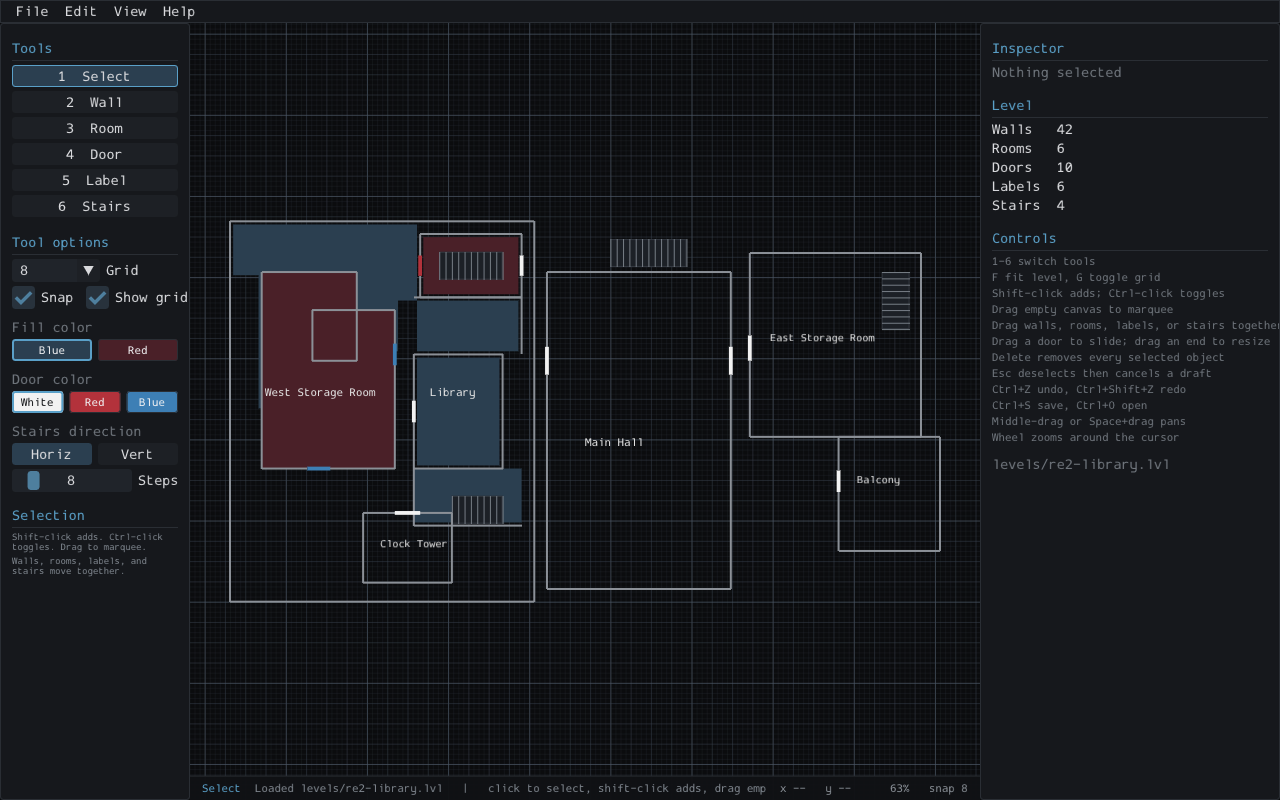
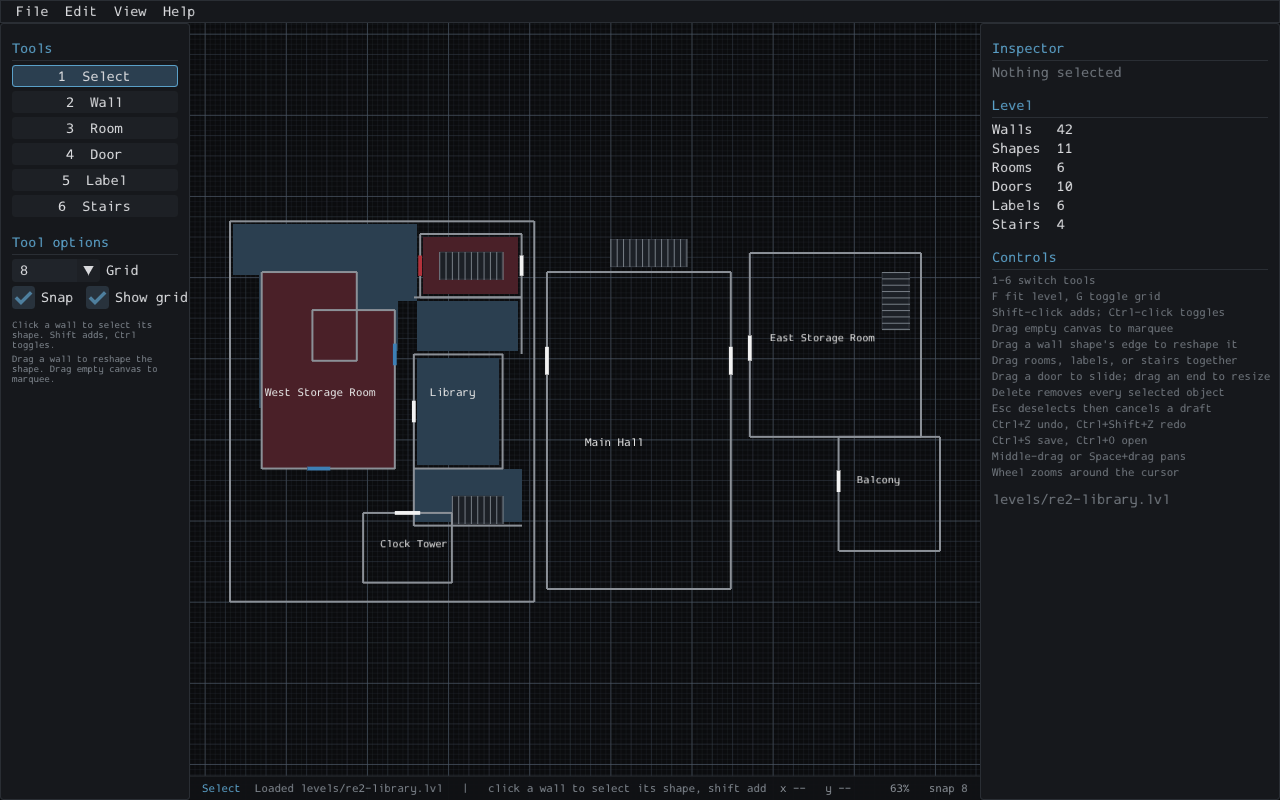
Document shapes, reshaping, and inside-only fills

diff --git a/README.md b/README.md
@@ -40,13 +40,14 @@ Load another level with `./build/editor --level path/to/level.lvl`. The `levels/
 
 - Draw walls click by click. Every segment is horizontal or vertical and continues from the last click.
 - Close a drawn loop by clicking its first point or pressing Enter. Close with an L-shaped pair when the last point is not aligned with the first. Press Esc to keep the chain open.
-- Create a painted area automatically when a loop closes, or draw one explicitly with the Room tool. Recolor any area blue or red.
+- Each drawn chain is one wall shape. Select any of its lines to select the shape, then drag a line to reshape it: that line moves and the lines connected to it stretch, while opposite lines stay put.
+- A closed shape fills only its own inside, in blue or red, or not at all with the None fill. Draw a painted area independently with the Room tool when it should not follow walls.
 - Add white, red, or blue doors to walls. A door keeps a fixed thickness, slides along its wall, and changes length by dragging either end or with the inspector.
 - Add text labels anywhere, edit the text in the inspector, resize and move them.
 - Add standard stairs with 2 to 48 steps. The step count sets the run length, and each run is horizontal or vertical.
-- Select, move, edit, and delete the placed objects. Deleting a wall also deletes the doors hosted by it.
-- Click to select, shift-click to add, Ctrl-click to remove, or drag from empty canvas to marquee select. Delete removes the whole selection in one step, and dragging anything selected moves the group together.
-- Snap to the grid on placement and movement. The drawn grid follows the selected Grid size, so every line is a position objects can land on. The grid sizes are 4, 8, 16, and 32 world units, and the Snap checkbox turns snapping off.
+- Select, edit, and delete the placed objects. Deleting a shape removes its walls and the doors hosted by them.
+- Click to select, shift-click to add, Ctrl-click to remove, or drag from empty canvas to marquee select. Delete removes the whole selection in one step. Dragging a wall line reshapes its shape, and dragging labels, rooms, or stairs moves them together.
+- Snap to the grid on placement, dragging, and reshaping. The drawn grid follows the selected Grid size, so every line is a position objects can land on. The grid sizes are 4, 8, 16, and 32 world units, and the Snap checkbox turns snapping off.
 - Pan, zoom, fit the level, undo and redo, save, and load.
 
 ## Controls
@@ -57,6 +58,7 @@ Load another level with `./build/editor --level path/to/level.lvl`. The `levels/
 | Left click | Use the active tool |
 | Shift plus left click | Add an object to the selection |
 | Ctrl plus left click | Toggle an object in the selection |
+| Drag a wall line | Reshape the shape by sliding that line and stretching its neighbours |
 | Drag on empty canvas | Marquee select; Shift adds to the selection |
 | Middle drag, or Space plus left drag | Pan |
 | Mouse wheel | Zoom around the cursor |
@@ -79,93 +81,27 @@ Painted areas are explicit polygons. That keeps their color and identity when ne
 
 Labels store a position, a size, and a string. Stairs store a center, a direction, and a step count. `STAIR_STEP_DEPTH` and `STAIR_WIDTH` fix the tread size.
 
-Selection is UI state and is never saved into a level. It is a bounded set per object kind plus a primary object. Shift-click adds an object, Ctrl-click toggles it, a marquee replaces or adds to the set, and Delete removes every selected object with one undo step. Dragging a selected wall moves the wall, or the whole group when it is part of a multi-selection. Selected rooms, labels, and stairs move with it. A door stores its host wall id and a normalized position, so a door travels with its wall and cannot leave it. A door dragged alone still slides along its wall, and a door end still resizes it.
+Selection is UI state and is never saved into a level. It is a bounded set per object kind plus a primary object. Shift-click adds an object, Ctrl-click toggles it, a marquee replaces or adds to the set, and Delete removes every selected object with one undo step. Dragging a wall line reshapes its shape. Selected rooms, labels, and stairs move as a group when dragged. A door stores its host wall id and a normalized position, so a door travels with its wall and cannot leave it. A door dragged alone still slides along its wall, and a door end still resizes it.
 
-Snap-to-grid applies to wall and room points, labels, stairs, door centers, door resize spans, and object drags. A group drag snaps from the primary object, so the relative spacing of the group stays intact. Snap is on by default. The grid sizes are 4, 8, 16, and 32 world units.
+Snap-to-grid applies to wall and room points, labels, stairs, door centers, door resize spans, reshapes, and object drags. A group drag snaps from the primary object, so the relative spacing of the group stays intact. Snap is on by default. The grid sizes are 4, 8, 16, and 32 world units.
 
 Undo stores whole level snapshots. Each completed change writes one snapshot. A wall click, a drag, and a property edit each undo as their own step. Closing a loop writes its closing walls and the fill together. The history keeps 64 levels.
 
-## Selection and snapping
+## Selection, shapes, and snapping
 
 ![Marquee selection in progress](docs/screenshots/marquee.png)
 
-A plain click on an unselected object selects only it. Clicking an object already in a multi-selection keeps the group and makes it primary, so the group can be dragged. Shift-click adds an object and never removes one. Ctrl-click toggles it. Dragging from empty canvas draws a marquee, and Shift makes the marquee additive. The inspector shows per-kind counts for a multi-selection, and Delete removes the whole set in one undo step.
+A plain click on an unselected object selects only it. Clicking an object already in a multi-selection keeps the group and makes it primary. Shift-click adds an object and never removes one. Ctrl-click toggles it. Dragging from empty canvas draws a marquee, and Shift makes the marquee additive. The inspector shows per-kind counts for a multi-selection, and Delete removes the whole set in one undo step.
 
-![Two selected labels](docs/screenshots/selection.png)
+A wall belongs to a shape, so clicking any of its lines selects the whole shape. The inspector then shows the shape: its fill, whether it is closed, and how many walls it has.
 
-![The whole level dragged as one group](docs/screenshots/group-drag.png)
+![A wall shape selected](docs/screenshots/selection.png)
 
-Marquee select everything, then drag any selected wall. The walls, their doors, the fills, the labels, and the stairs move by one grid-snapped delta and commit as one undo step.
+Drag one of the shape's lines to reshape it. The line slides along its normal, snapped to the grid, and every line that meets it stretches. Lines on the opposite side stay where they are.
 
-Dragging moves the whole group, walls and their doors included. A door has no independent position, so it follows its host wall; selecting a door without its wall leaves it in place and the status line says so. A door dragged alone slides along its wall, and dragging an end handle resizes it. Snap uses the grid size set in the left panel, and the group snaps from the primary object's anchor so the rest keeps its offset.
+![A line dragged to reshape the shape](docs/screenshots/reshape.png)
 
-The recommended interaction settings are now the only behavior. Door placement is click only, closing a wall loop always creates a fill, and a door always opens the wall behind it. The Prototype panel and its unused variants were removed.
-
-## Level format
-
-Levels are UTF-8 text and diff cleanly in git. A short example:
-
-```text
-ink-level 1
-wall 1 40.000 40.000 520.000 40.000
-wall 2 520.000 40.000 520.000 640.000
-room 1 4 100.000 120.000 220.000 120.000 220.000 260.000 100.000 260.000
-door 0 1 0.5000 44.000
-label 120.000 300.000 19.000 West Storage Room
-stairs 420.000 110.000 0 10
-```
-
-Records are `wall`, `room`, `door`, `label`, and `stairs`. Walls carry their ids so door hosts survive a save and load. Load parses into a temporary level and leaves the open level untouched on any error.
-
-## Project layout
-
-| Path | Owns |
-| --- | --- |
-| `src/main.c` | sokol app lifecycle, font, frame order |
-| `src/editor.c` | ImGui theme, panels, canvas, gestures, camera, modals |
-| `src/level.c` | level document, edits, save, load, undo ring |
-| `src/geom.c` | vectors, snapping, segment and polygon math |
-| `tests/test_level.c` | 171 headless checks for the core |
-| `tools/verify.sh` | end-to-end X11 check with pixel evidence |
-| `tools/shot.sh` | build, launch, drive, screenshot |
-| `tools/gen_demo_map.py` | regenerate the demo level |
-| `tools/level_info.c` | print counts and bounds for a level file |
-
-Only `main.c` and `editor.c` include sokol or ImGui headers. `make test` links the core with gcc alone, so a core file that pulls in a UI header fails the build.
-
-## Verification
-
-```sh
-make test
-make verify
-```
-
-`make verify` runs `tools/verify.sh`, which rebuilds, runs the core tests, drives the real X11 window with xdotool, samples canvas pixels, and checks the saved file. A recorded run at 1280x800:
-
-```text
-PASS build without warnings
-PASS prototype settings removed
-PASS core tests (171 checks)
-PASS demo fills blue=28197 red=25854 white=440
-PASS closed loop added a fill (+9296 blue px)
-PASS delete removed the fill
-PASS undo restored the fill
-PASS click placement added a white door (+52 white px)
-PASS label typed and deactivated
-PASS save wrote 46 walls, 11 doors, a grid label, and a grid door
-PASS reload restored the level (blue=37899)
-PASS marquee selected all and shift-click preserved the selected walls, rooms, and doors
-PASS undo restored the level after marquee delete
-PASS group drag moved both labels onto the grid
-PASS group drag moved walls and their doors with the rest of the selection
-PASS shift selection deleted both labels in one step
-PASS dragged wall moved onto grid coordinates
-PASS l-shaped close created a fill (+6884 blue px)
-PASS l-shaped close saved 4 new walls and a 4 point room
-ALL EDITOR CHECKS PASSED
-```
-
-The script assumes a 1280x800 window and the default panel widths, and it uses its own Xvfb display. Screenshots land in `/tmp/ink-ribbon-verify-*.png`.
+Doors ride their host wall through a reshape. A door dragged alone slides along its wall, and dragging an end handle resizes it. Labels, rooms, and stairs still move as a group when they are dragged together.
 
 ## Focus and the pointer
 

diff --git a/docs/architecture.md b/docs/architecture.md
@@ -6,13 +6,13 @@ The editor must reproduce the reference map: orthogonal walls drawn click by cli
 
 ## Shape
 
-One pointer-free `Level` document of five typed pools: walls, rooms, doors, labels, stairs. Every pool has a fixed capacity and a live count. A whole document copy is a struct assignment, which makes snapshot undo and load-after-validate trivial.
+One pointer-free `Level` document of six typed pools: shapes, walls, rooms, doors, labels, stairs. Every pool has a fixed capacity and a live count. A whole document copy is a struct assignment, which makes snapshot undo and load-after-validate trivial.
 
-Walls are independent axis-aligned segments with a monotonic `WallId`. Corners connect visually because the wall tool starts each new segment at the previous click. No vertex pool exists, so a wall cannot dangle and no epsilon weld is needed. `level_add_wall` rejects a zero-length or non-orthogonal segment, so every stored wall is drawable and every door host has a well-defined axis.
+A shape is one drawn wall chain: a `Shape` record with a closed flag and a fill colour, plus the walls that belong to it. Walls stay independent axis-aligned segments with a monotonic `WallId` and a `ShapeId`. Wall order inside a shape is the order the walls were added, so the loop polygon is a traversal, not a second geometry copy. There is no vertex pool: corners meet because the wall tool starts each segment at the previous endpoint, and a reshape carries every endpoint that coincides with the moved line. `level_add_wall` rejects a zero-length or non-orthogonal segment, so every stored wall is drawable and every door host has a well-defined axis.
 
 Doors store `{ WallId wall, float t, float width, DoorColor color }`. `t` is the center parameter from 0 to 1. The thickness is the `DOOR_THICKNESS` constant for every door, per the request. `level_set_door_span` clamps the span to the host wall. Deleting a wall deletes its doors in the same operation, so a door never points at a dead host.
 
-Rooms are explicit polygons created when a wall chain closes. They are not derived from wall faces. The reference fills are not exact faces, and an explicit polygon keeps its color and identity when nearby walls change. The canvas fills them with `ImDrawList_AddConcavePolyFilled`, which the vendored ImGui 1.93 provides, so no triangulation code exists.
+A closed shape carries its own fill, None, blue, or red, and the fill polygon is the shape's wall loop. Standalone Room polygons stay for painted areas that do not follow walls. Both are filled by `polygon_triangulate` in `geom.c`, an ear-clipping pass over the polygon, and drawn as triangles. The vendored ImGui `ImDrawList_AddConcavePolyFilled` renders the bounding rectangle for some valid polygons, including a plus-shaped loop, so it is not used for fills.
 
 Labels and stairs are independent placed objects. Stairs use the constants `STAIR_STEP_DEPTH`, `STAIR_WIDTH`, and an integer step count, so "standard stairs, adjustable count" is encoded rather than repeated in UI code. Their footprint is a pure function of the object.
 
@@ -22,30 +22,30 @@ The core (`geom.*`, `level.*`) includes no sokol or ImGui header and builds with
 
 ## Fixed interaction choices
 
-The prototype comparison picked click door placement, automatic room fill on wall-loop close, and cut door rendering. Those are now the only behavior. The Prototype panel and the drag-placement, manual-fill, and overlay-render branches were removed. The Room tool still draws explicit fills for painted areas that do not follow walls.
+The prototype comparison picked click door placement, automatic fill when a wall loop closes, and cut door rendering. Those are now the only behavior. The Prototype panel and the drag-placement, manual-fill, and overlay-render branches were removed. The Room tool still draws explicit fills for painted areas that do not follow walls.
 
-Selection is UI state in `editor.c`, not part of `Level`. It is five bounded per-kind sets plus a primary reference. Shift-click adds, Ctrl-click toggles, a marquee replaces or adds, and Delete removes every selected object in one snapshot. Walls, rooms, labels, and stairs move as a group. Walls are the movable primitive: a door stores a wall id and a normalized position, so it follows its wall and cannot be translated independently. A door dragged alone keeps its slide and end-resize gestures.
+Selection is UI state in `editor.c`, not part of `Level`. It is six bounded per-kind sets plus a primary reference. Shift-click adds, Ctrl-click toggles, a marquee replaces or adds, and Delete removes every selected object in one snapshot. A wall hit selects its whole shape, because the shape is the object. Dragging one of its lines starts `GESTURE_RESHAPE`, which slides that line along its normal and carries every coincident endpoint, so connected lines stretch and opposite lines stay. Rooms, labels, and stairs still move as a group. A door stores a wall id and a normalized position, so it follows its wall and cannot be translated independently. A door dragged alone keeps its slide and end-resize gestures.
 
-Snap applies to placement and to label, stair, room, door, and group drags. Group drags snap from the primary object's anchor so relative spacing is preserved. The Snap checkbox and grid size remain user controls.
+Snap applies to placement, reshaping, and label, stair, room, door, and group drags. Group drags snap from the primary object's anchor so relative spacing is preserved. The Snap checkbox and grid size remain user controls.
 
 ## Alternatives rejected
 
-- Welded vertex graph and generational handles. It makes connectivity structural and survives wall sliding. It also adds a vertex invariant, stale handle repair, cycle extraction, and a wall-move rule that the request never exercises. The simpler independent-segment document has one reference invariant (door to wall) and one cascade.
+- Welded vertex graph and generational handles. It makes connectivity structural and survives arbitrary wall sliding. It also adds a vertex invariant, stale handle repair, and cycle extraction. The shape pool keeps walls as segments and adds one invariant (wall to shape), one ordered traversal, and one cascade.
 - Rooms derived from wall faces. Fill identity churns when walls change, and the reference fills are not faces.
 - Tagged-union entity array. `Room` carries 64 points, so a union charges every door and label about half a kilobyte and every render loop still switches on kind.
 - Command-delta undo. More code, more inverses, no benefit at this document size.
 
 ## Tradeoffs
 
-- Fixed capacities (512 walls, 64 rooms, 256 doors, 128 labels, 64 stairs) are enough for a floor plan and keep the format and snapshots simple. Capacity failure is reported in the status line.
-- Rooms are duplicated geometry rather than derived topology. A room can drift from its walls after wall deletion; that matches the reference, where fills are painted areas.
+- Fixed capacities (512 shapes, 512 walls, 64 rooms, 256 doors, 128 labels, 64 stairs) are enough for a floor plan and keep the format and snapshots simple. Capacity failure is reported in the status line.
+- Shape fills are derived from the shape's walls, so they follow a reshape. Standalone rooms are painted and can drift; that matches the reference, where some fills are painted areas.
 - Selection is a bounded set per object kind plus a primary reference. It is cleared when an undo changes pool counts, so indices never retarget silently. Doors keep stable wall IDs, so no generational handles are needed.
 - `make test` covers the pure core only. Canvas behavior is proven by driving the real window and screenshotting it.
 
 ## Synthesis decision
 
-The base is the independent segment document above. Candidate A proposed a welded vertex graph with generational handles, cycle walking, and a wall run slide. Candidate B proposed the same graph with integer centimetre coordinates, typed wall and room ids, and rooms stored as wall cycles. Both are sound CAD designs, and both solve wall dragging and splitting at crossings. The request asks for drawing, coloring, doors on walls, labels, stairs, and deletion. It never asks to drag a wall or split one at a crossing. The graph would add a vertex invariant, stale handle repair, and a cycle query that no requested gesture uses. The simpler document has one cross-object invariant, the door host, and one cascade on wall delete.
+The base is the shape document above. The earlier independent-segment design dropped wall dragging on the argument that the request never asked for it. A later request did: walls must form one shape with draggable lines. The shape pool answers that by grouping existing segments and adding one slide rule. A welded graph would still be the wrong size: it adds a vertex invariant, stale handle repair, and a cycle query, while the request needs one gesture.
 
-From candidate A we kept stable wall ids, the door host reference, the delete cascade, whole-document snapshots, the all-or-nothing load, and the fixed capacity constants. From candidate B we kept the typed pools, one gesture union, and the discovery that ImGui 1.93 has `ImDrawList_AddConcavePolyFilled`, which removes the triangulation A proposed. We rejected the vertex pool, generational handles, integer coordinates, and rooms as wall cycles.
+From candidate A we kept stable wall ids, the door host reference, the delete cascade, whole-document snapshots, the all-or-nothing load, and the fixed capacity constants. From candidate B we kept the typed pools and one gesture union. We rejected the vertex pool, generational handles, integer coordinates, and rooms as wall cycles. The triangulation A proposed came back after `ImDrawList_AddConcavePolyFilled` was measured filling a plus loop's bounding rectangle; `geom.c` now ear-clips.
 
 The prototype comparison picked Click for door placement, Auto for room fill, and Cut for door render. Those choices are now fixed, the panel is gone, and multi-selection plus grid snapping sit on top of the same document model. The evidence is in `README.md` and `tools/verify.sh`.

diff --git a/docs/editor-ui-spec.md b/docs/editor-ui-spec.md
@@ -9,7 +9,7 @@ One sokol window titled `Ink Ribbon Level Editor`, 1280 by 800 initial size, nea
 The frame builds a full-viewport ImGui layout:
 
 - A main menu bar at the top: File, Edit, View, Help.
-- A left tool panel, 190 px wide, from below the menu bar to the bottom.
+- A left tool panel, 190 px wide, from below the menu bar to the bottom. It shows the tool buttons, then Grid, Snap, and Show grid, then only the options the active tool uses.
 - A right inspector panel, 300 px wide, same vertical span.
 - A canvas filling the middle. Canvas rect is stored in the editor so the mouse can be converted between screen and world.
 - A one-line status strip overlaid at the bottom of the canvas. It shows the active tool hint, cursor world coordinates, zoom, the current snap size or `snap off`, and the latest action or error.
@@ -18,7 +18,7 @@ Panels use `ImGuiWindowFlags_NoTitleBar | NoResize | NoMove | NoCollapse | NoScr
 
 ## Visual language
 
-Match the reference. Near-black canvas `#0b0c0e`. Grid lines at the selected Grid size, subtle at `#333b45` with low alpha, a brighter line every 4 cells and the brightest every 16. The grid gets coarser only when the fine lines would be closer than 4 screen pixels. Walls `#8b9097`, 2 screen pixels wide. Room blue `#2b3f50`, room red `#4a2028`, both opaque. Doors white `#f2f2f2`, red `#b3323b`, blue `#3d7fb5`. Labels `#e6e6e6`. Stairs `#767d85` treads on a slightly lighter footprint fill. Selection accent `#5aa0c8` with a 2 px outline or handles.
+Match the reference. Near-black canvas `#0b0c0e`. Grid lines at the selected Grid size, subtle at `#333b45` with low alpha, a brighter line every 4 cells and the brightest every 16. The grid gets coarser only when the fine lines would be closer than 4 screen pixels. Walls `#8b9097`, 2 screen pixels wide. Fill blue `#2b3f50`, fill red `#4a2028`, both opaque. A closed wall shape can also use None, which draws no fill. Fills are ear-clipped into triangles, so a shape fills its own outline and never its bounding rectangle. Doors white `#f2f2f2`, red `#b3323b`, blue `#3d7fb5`. Labels `#e6e6e6`. Stairs `#767d85` treads on a slightly lighter footprint fill. Selection accent `#5aa0c8` with a 2 px outline or handles.
 
 Dark ImGui theme: window background `#101114`, panel `#16181c`, frame `#1d2025`, borders `#2a2e34`, text `#d9dadd`, accent `#4e7f9e`. Rounded corners 3 px. Sentence-case headings.
 
@@ -45,11 +45,12 @@ Click sets points. Each click appends an orthogonal segment that continues from 
 
 - The first click starts a chain at the grid-snapped point.
 - Each later click uses `snap_ortho(chain_last, cursor_world, grid)` so a segment is horizontal when `|dx| > |dy|`, vertical otherwise, and the free coordinate snaps to the grid.
-- Clicking within 12 screen pixels of the first point closes the chain: add the final wall back to the first point, then add a room polygon from the chain points using the current fill color. End the chain. Select the new room.
+- The first click creates a shape with `level_add_shape`. Every later click calls `level_add_wall_to_shape`.
+- Clicking within 12 screen pixels of the first point closes the chain: add the final wall back to the first point, call `level_close_shape`, then `level_set_shape_fill` with the tool's fill colour. End the chain. Select the shape. A close needs at least four walls; report that when it fails. No Room is created.
 - `Enter` also closes the chain when it has at least three points. `Esc` or right-click ends it open, keeping only the walls already added.
 - `Backspace` removes the last wall added in the current chain and moves the chain tip back. This is a live document mutation; commit history after it.
 - Show a preview segment from the last point to the constrained cursor, the first-point marker with a "close" highlight when near, and small vertex dots.
-- Chain points are capped at `LEVEL_MAX_ROOM_PTS`; past that, closing still adds the wall but skips the room and reports why.
+- Chain points are bounded by the wall pool and the shape pool; a failed add reports why in the status strip.
 
 ### Room
 
@@ -73,7 +74,9 @@ Click places stairs at the snapped point using the current direction and step co
 
 ### Select
 
-Click hit-tests in this order: door, label, stairs, wall, room. Tolerance is 7 screen pixels for walls and doors. Labels use their measured text rect. Stairs use `level_stairs_rect`. Rooms use `level_room_at`.
+Click hit-tests in this order: door, label, stairs, wall, room. Tolerance is 7 screen pixels for walls and doors. Labels use their measured text rect. Stairs use `level_stairs_rect`. Rooms use `level_room_at`. A wall hit selects that wall's shape, because the shape is the object; the hit wall is remembered for the drag that may follow.
+
+Dragging a wall starts a reshape. A horizontal wall slides in y, a vertical one in x. The drag snaps the moved coordinate to the grid, then `level_slide_wall_edge` carries every coincident endpoint, so connected lines stretch and opposite lines stay. The gesture commits one snapshot on release and restores the previous snapshot on Esc or right-click.
 
 Selection is a bounded set per object kind plus a primary reference. The set is never serialized.
 
@@ -81,7 +84,7 @@ Selection is a bounded set per object kind plus a primary reference. The set is 
 - Shift-click adds the hit object and never removes one. Ctrl-click toggles it in or out. Neither starts a drag.
 - Plain press on empty canvas clears the selection and starts a marquee. Shift-press starts an additive marquee. Travel under 4 screen pixels is a click.
 - On marquee release, select every object intersecting the rectangle. Walls and doors use segment intersection, labels and stairs use rect overlap, rooms use polygon intersection.
-- Drag a selected wall to move it, or the whole group when it is part of a multi-selection. Selected rooms, labels, and stairs move with it. The group snaps from the primary object's anchor and commits one history snapshot on release. A wall keeps its id and stays axis-aligned.
+- Drag a wall line to reshape its shape, as described under Wall. Selected rooms, labels, and stairs move as a group when dragged. A group snaps from the primary object's anchor and commits one history snapshot on release.
 - A door follows its host wall, so it moves with a selected wall. A door whose host wall is not selected stays put and the status line says so. A door dragged when it is the only selected object slides along its wall, and dragging an end handle resizes it.
 - `Delete` or Edit > Delete removes every selected object in one history snapshot. Deleting a wall cascades its doors.
 - `Esc` clears selection, cancels a draft, or restores a live drag.
@@ -133,7 +136,7 @@ The UI owner must verify all of these on the real X11 window and report the comm
 1. `make` builds with no warnings from `src/`.
 2. Launch with the demo level. Screenshot shows blue and red fills, white/red/blue doors, labels, and hatched stairs. Sample pixels to prove the fill colors exist.
 3. Draw a closed four-click rectangle with the Wall tool. Screenshot shows the walls and a new fill. Verify with `level_stats` text or pixel sampling.
-4. Switch to Select, click the new fill, press Delete, screenshot or status confirms removal.
+4. Switch to Select, click a wall of the new shape, press Delete, screenshot or status confirms removal.
 5. Place a door on a wall, drag it along the wall, resize it, change its color in the inspector.
 6. Add a label, type in the inspector, move it. Add stairs, change step count and direction.
 7. Save to a temp path, New, Open the temp path, confirm the same object counts.
